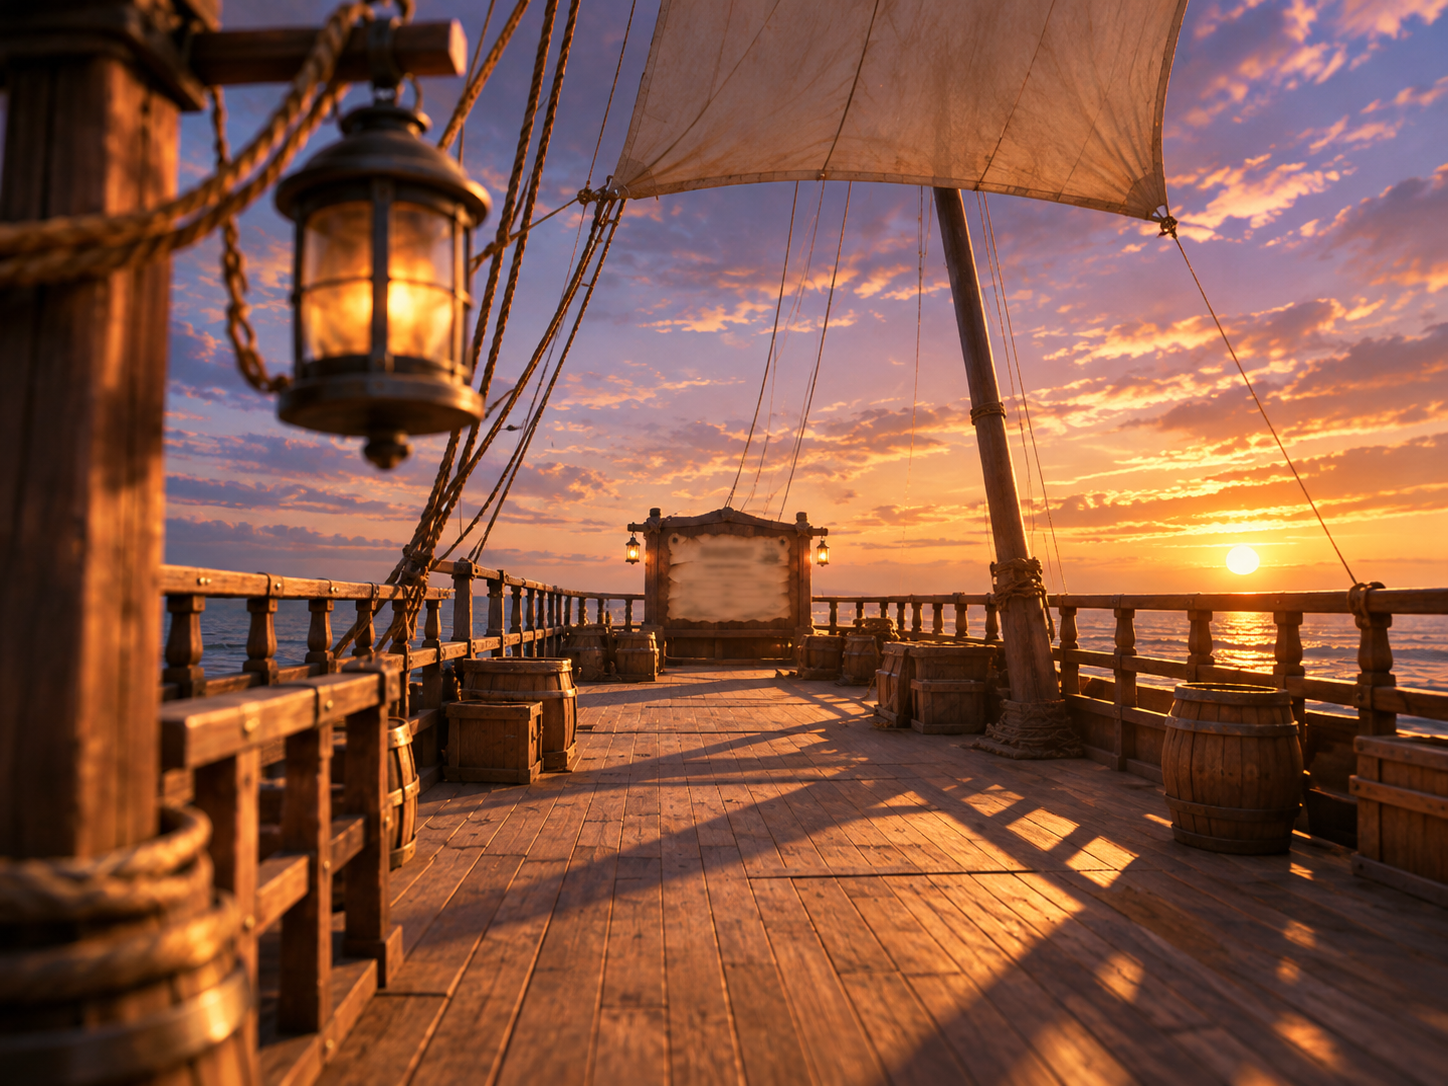
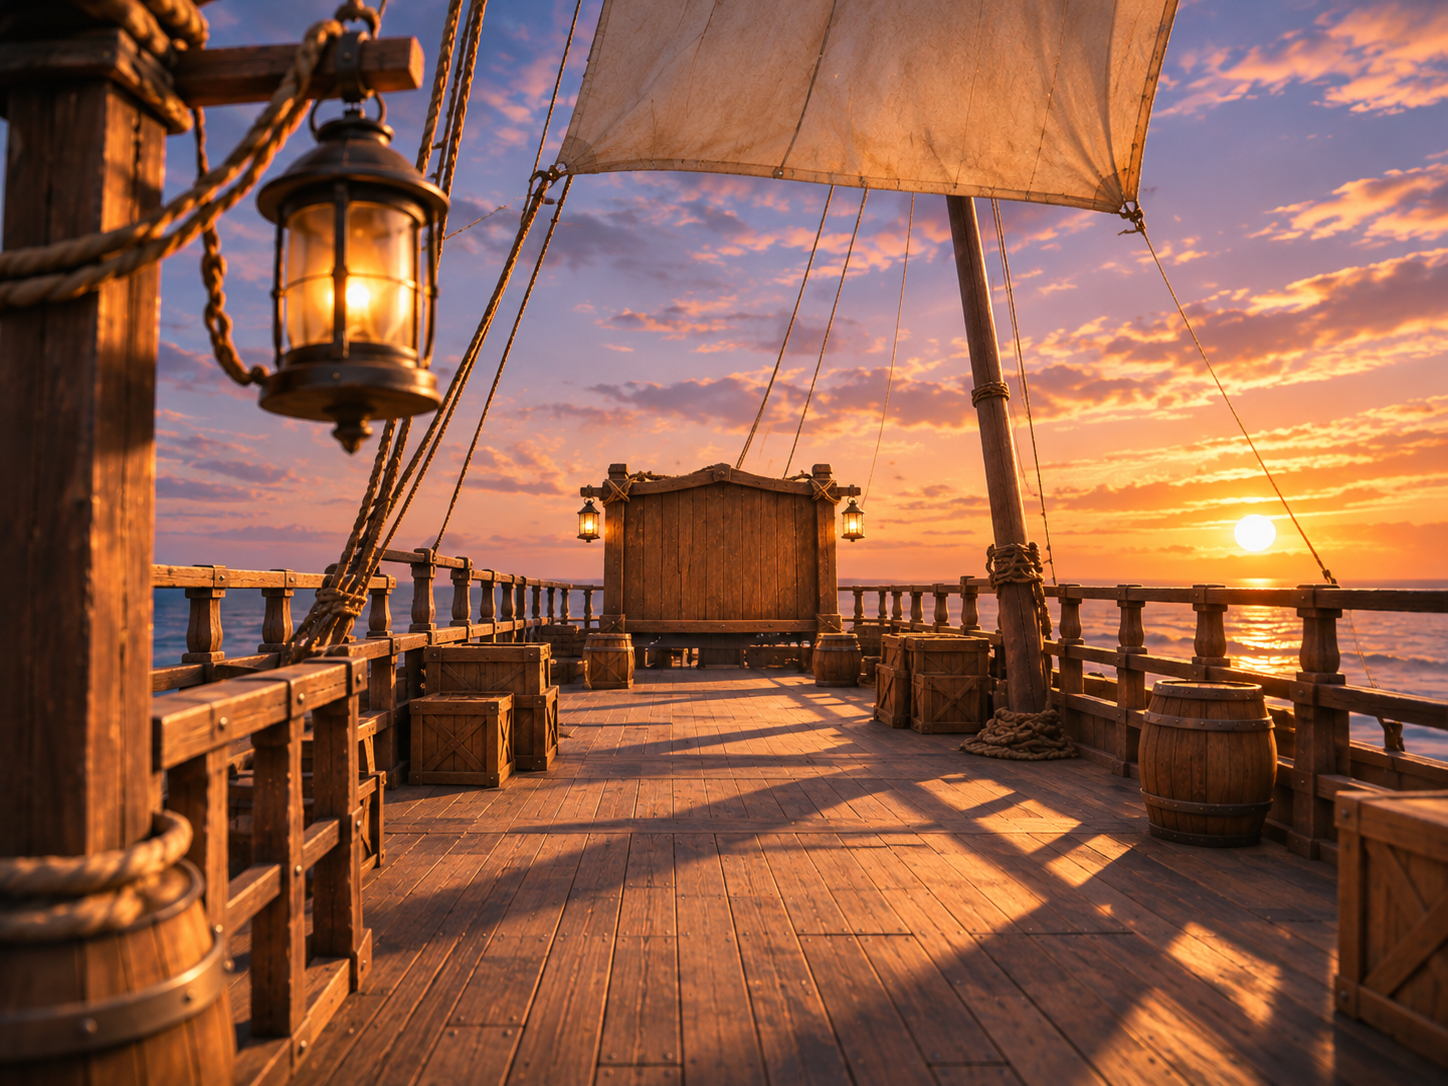
Speed up deck transition with two images

diff --git a/cabin/index.html b/cabin/index.html
@@ -280,6 +280,7 @@
       cursor: pointer;
     }
 
+    /* 마우스를 올려도 글씨가 나타나지 않음 */
     .cabin-door:focus-visible {
       outline: 2px solid #f3d18b;
       outline-offset: 3px;
@@ -329,7 +330,7 @@
       animation: titleAppear 2.5s ease-in-out forwards;
     }
 
-    /* 금색 가로선 */
+    /* 글씨 위아래 금색 가로선 */
     .entrance-title::before,
     .entrance-title::after,
     .deck-title::before,
@@ -384,7 +385,7 @@
     }
 
     /* =========================
-       10. 갑판 이동 전체 화면
+       10. 갑판 전환 화면
     ========================= */
 
     .deck-transition {
@@ -421,7 +422,7 @@
       background: #100e0b;
       opacity: 1;
 
-      transition: opacity 0.8s ease;
+      transition: opacity 0.5s ease;
     }
 
     .deck-title {
@@ -429,7 +430,7 @@
     }
 
     .deck-transition.active .deck-title {
-      animation: titleAppear 2.5s ease-in-out forwards;
+      animation: titleAppear 1.5s ease-in-out forwards;
     }
 
     .deck-transition.show-images .deck-intro {
@@ -438,7 +439,7 @@
     }
 
     /* =========================
-       12. 이미지 3장 전환
+       12. 이미지 2장 전환
     ========================= */
 
     .deck-images {
@@ -462,19 +463,19 @@
       transform: scale(1);
 
       transition:
-        opacity 0.8s ease-in-out,
-        transform 2.2s ease-out;
+        opacity 0.45s ease-in-out,
+        transform 1.5s ease-out;
 
       will-change: opacity, transform;
     }
 
-    /* 현재 보이는 이미지 */
+    /* 현재 이미지가 서서히 확대 */
     .deck-image.visible {
       opacity: 1;
       transform: scale(1.06);
     }
 
-    /* 이전 이미지 */
+    /* 이전 이미지가 사라짐 */
     .deck-image.past {
       opacity: 0;
       transform: scale(1.12);
@@ -570,7 +571,7 @@
     <!-- 랜턴 불빛 -->
     <div class="lantern-glow" aria-hidden="true"></div>
 
-    <!-- 먼지 -->
+    <!-- 떠다니는 먼지 -->
     <div
       class="dust-container"
       id="dust-container"
@@ -612,7 +613,7 @@
     aria-hidden="true"
   >
 
-    <!-- 이미지 3장 -->
+    <!-- 이미지 2장 -->
     <div class="deck-images">
 
       <img
@@ -624,12 +625,6 @@
       <img
         class="deck-image"
         src="./deck-02.png"
-        alt=""
-      >
-
-      <img
-        class="deck-image"
-        src="./deck-03.png"
         alt=""
       >
 
@@ -803,43 +798,35 @@
         return;
       }
 
-      /* 1. 갑판 글씨 */
+      /* 0초: 갑판 글씨 등장 */
       deckTransition.classList.add("active");
       deckTransition.setAttribute("aria-hidden", "false");
 
-      /* 2. 첫 번째 이미지 준비 */
+      /* 첫 번째 이미지 미리 준비 */
       deckImages[0].classList.add("visible");
 
-      /* 3. 갑판 글씨 사라지고 이미지 등장 */
+      /* 1.5초: 첫 번째 이미지 등장 */
       setTimeout(() => {
         deckTransition.classList.add("show-images");
-      }, 2500);
+      }, 1500);
 
-      /* 4. 두 번째 이미지 */
+      /* 2.6초: 두 번째 이미지 등장 */
       setTimeout(() => {
         deckImages[0].classList.remove("visible");
         deckImages[0].classList.add("past");
 
         deckImages[1].classList.add("visible");
-      }, 4200);
+      }, 2600);
 
-      /* 5. 세 번째 이미지 */
-      setTimeout(() => {
-        deckImages[1].classList.remove("visible");
-        deckImages[1].classList.add("past");
-
-        deckImages[2].classList.add("visible");
-      }, 5900);
-
-      /* 6. 잠깐 암전 */
+      /* 3.7초: 화면 암전 */
       setTimeout(() => {
         deckTransition.classList.add("blackout");
-      }, 7600);
+      }, 3700);
 
-      /* 7. 방명록 이동 */
+      /* 4.5초: 방명록으로 이동 */
       setTimeout(() => {
         window.location.href = destination;
-      }, 8500);
+      }, 4500);
     });
 
     /* =========================
